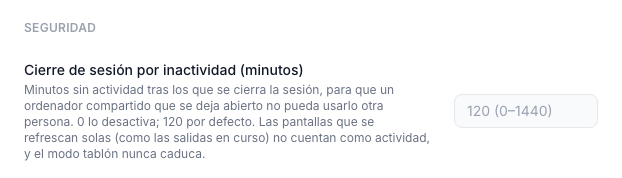
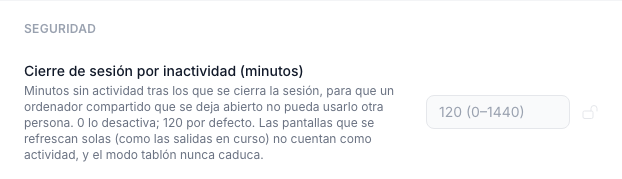
fix(security): el cierre por inactividad se ajusta solo a nivel global, como en atica-calidad

diff --git a/tests/Integration/EventSubscriber/IdleSessionSubscriberTest.php b/tests/Integration/EventSubscriber/IdleSessionSubscriberTest.php
@@ -4,19 +4,17 @@ declare(strict_types=1);
 
 namespace App\Tests\Integration\EventSubscriber;
 
-use App\Entity\CentreSettingValue;
 use App\Entity\EducationalCentre;
 use App\Entity\GlobalSettingValue;
 use App\Entity\PersonName;
 use App\Entity\SettingDefinition;
 use App\Entity\Teacher;
-use App\Entity\TeacherSettingValue;
 use App\EventSubscriber\IdleSessionSubscriber;
 use App\Service\AppSettings;
 use App\Tests\Integration\ControllerTestCase;
 use Symfony\Component\Clock\Test\ClockSensitiveTrait;
 
-/** Cierre de sesión por inactividad: ajuste global, de centro y de docente, y qué cuenta como actividad. */
+/** Cierre de sesión por inactividad: ajuste global y qué cuenta como actividad. */
 final class IdleSessionSubscriberTest extends ControllerTestCase
 {
     use ClockSensitiveTrait;
@@ -40,26 +38,10 @@ final class IdleSessionSubscriberTest extends ControllerTestCase
         return $definition;
     }
 
-    private function globalTimeout(int $minutes, bool $locked = false): void
+    private function globalTimeout(int $minutes): void
     {
-        $this->persist((new GlobalSettingValue())->setDefinition($this->definition())->setValue((string) $minutes)->setLocked($locked));
-        $this->invalidateSettings();
-    }
+        $this->persist((new GlobalSettingValue())->setDefinition($this->definition())->setValue((string) $minutes));
 
-    private function centreTimeout(int $minutes, bool $locked = false): void
-    {
-        $this->persist((new CentreSettingValue())->setDefinition($this->definition())->setCentre($this->centre)->setValue((string) $minutes)->setLocked($locked));
-        $this->invalidateSettings();
-    }
-
-    private function teacherTimeout(int $minutes): void
-    {
-        $this->persist((new TeacherSettingValue())->setDefinition($this->definition())->setTeacher($this->teacher)->setValue((string) $minutes));
-        $this->invalidateSettings();
-    }
-
-    private function invalidateSettings(): void
-    {
         /** @var AppSettings $settings */
         $settings = self::getContainer()->get(AppSettings::class);
         $settings->invalidate();
@@ -108,56 +90,20 @@ final class IdleSessionSubscriberTest extends ControllerTestCase
         $this->assertExpiredAt('09:16:00');
     }
 
-    public function testTheCentreSettingOverridesTheGlobalOne(): void
+    public function testTheSettingIsOnlyAvailableAtGlobalLevel(): void
     {
-        self::mockTime('2025-10-10 09:00:00');
-        $this->loggedInTeacher();
-        $this->globalTimeout(15);
-        $this->centreTimeout(60);
+        $definition = $this->definition();
 
-        $this->assertAliveAt('09:40:00');
-        $this->assertExpiredAt('10:41:00');
-    }
-
-    public function testTheTeachersOwnSettingOverridesTheCentreAndGlobalOnes(): void
-    {
-        self::mockTime('2025-10-10 09:00:00');
-        $this->loggedInTeacher();
-        $this->globalTimeout(15);
-        $this->centreTimeout(30);
-        $this->teacherTimeout(240);
-
-        $this->assertAliveAt('11:00:00');
-        $this->assertAliveAt('14:30:00');
-        $this->assertExpiredAt('18:31:00');
-    }
-
-    public function testALockedGlobalSettingBeatsTheCentreAndTheTeacher(): void
-    {
-        self::mockTime('2025-10-10 09:00:00');
-        $this->loggedInTeacher();
-        $this->globalTimeout(15, locked: true);
-        $this->teacherTimeout(0);
-        $this->centreTimeout(0);
-
-        $this->assertExpiredAt('09:16:00');
-    }
-
-    public function testALockedCentreSettingBeatsTheTeacher(): void
-    {
-        self::mockTime('2025-10-10 09:00:00');
-        $this->loggedInTeacher();
-        $this->centreTimeout(15, locked: true);
-        $this->teacherTimeout(0);
-
-        $this->assertExpiredAt('09:16:00');
+        self::assertTrue($definition->isGlobalScope());
+        self::assertFalse($definition->isCentreScope());
+        self::assertFalse($definition->isTeacherScope());
     }
 
     public function testZeroTurnsItOff(): void
     {
         self::mockTime('2025-10-10 09:00:00');
         $this->loggedInTeacher();
-        $this->teacherTimeout(0);
+        $this->globalTimeout(0);
 
         self::mockTime('2025-10-12 09:00:00');
         $this->client->request('GET', '/perfil');

diff --git a/migrations/sqlite/Version20260101000086.php b/migrations/sqlite/Version20260101000086.php
@@ -13,7 +13,7 @@ final class Version20260101000086 extends AbstractMigration
 {
     public function getDescription(): string
     {
-        return 'Ajuste security.idle_timeout_minutes (cierre de sesión por inactividad), global, de centro y de docente (SQLite)';
+        return 'Ajuste security.idle_timeout_minutes (cierre de sesión por inactividad), solo a nivel global (SQLite)';
     }
 
     public function up(Schema $schema): void
@@ -25,7 +25,7 @@ final class Version20260101000086 extends AbstractMigration
 
         // El id va como parámetro con los 16 bytes del UUID, que es como los envía Doctrine en SQLite (ver la migración 050).
         $this->addSql(
-            "INSERT INTO setting_definition (id, key, type, default_value, global_scope, centre_scope, teacher_scope, min_value, max_value, choices, category, category_order, position) VALUES (?, 'security.idle_timeout_minutes', 'integer', '120', 1, 1, 1, 0, 1440, NULL, 'settings.category.security', 8, 10)",
+            "INSERT INTO setting_definition (id, key, type, default_value, global_scope, centre_scope, teacher_scope, min_value, max_value, choices, category, category_order, position) VALUES (?, 'security.idle_timeout_minutes', 'integer', '120', 1, 0, 0, 0, 1440, NULL, 'settings.category.security', 8, 10)",
             [Uuid::v4()->toBinary()]
         );
     }
@@ -37,10 +37,7 @@ final class Version20260101000086 extends AbstractMigration
             'Esta migración sólo puede ejecutarse en SQLite.'
         );
 
-        $definition = "(SELECT id FROM setting_definition WHERE key = 'security.idle_timeout_minutes')";
-        $this->addSql("DELETE FROM teacher_setting_value WHERE definition_id IN $definition");
-        $this->addSql("DELETE FROM centre_setting_value WHERE definition_id IN $definition");
-        $this->addSql("DELETE FROM global_setting_value WHERE definition_id IN $definition");
+        $this->addSql("DELETE FROM global_setting_value WHERE definition_id IN (SELECT id FROM setting_definition WHERE key = 'security.idle_timeout_minutes')");
         $this->addSql("DELETE FROM setting_definition WHERE key = 'security.idle_timeout_minutes'");
     }
 }

diff --git a/migrations/mysql/Version20260101000086.php b/migrations/mysql/Version20260101000086.php
@@ -12,7 +12,7 @@ final class Version20260101000086 extends AbstractMigration
 {
     public function getDescription(): string
     {
-        return 'Ajuste security.idle_timeout_minutes (cierre de sesión por inactividad), global, de centro y de docente (MySQL / MariaDB)';
+        return 'Ajuste security.idle_timeout_minutes (cierre de sesión por inactividad), solo a nivel global (MySQL / MariaDB)';
     }
 
     public function up(Schema $schema): void
@@ -24,7 +24,7 @@ final class Version20260101000086 extends AbstractMigration
 
         $this->addSql(<<<'SQL'
             INSERT INTO setting_definition (id, `key`, type, default_value, global_scope, centre_scope, teacher_scope, min_value, max_value, choices, category, category_order, position) VALUES
-                (UNHEX(REPLACE(UUID(), '-', '')), 'security.idle_timeout_minutes', 'integer', '120', 1, 1, 1, 0, 1440, NULL, 'settings.category.security', 8, 10)
+                (UNHEX(REPLACE(UUID(), '-', '')), 'security.idle_timeout_minutes', 'integer', '120', 1, 0, 0, 0, 1440, NULL, 'settings.category.security', 8, 10)
         SQL);
     }
 
@@ -35,10 +35,7 @@ final class Version20260101000086 extends AbstractMigration
             'Esta migración sólo puede ejecutarse en MySQL o MariaDB.'
         );
 
-        $definition = "(SELECT id FROM (SELECT id FROM setting_definition WHERE `key` = 'security.idle_timeout_minutes') d)";
-        $this->addSql("DELETE FROM teacher_setting_value WHERE definition_id IN $definition");
-        $this->addSql("DELETE FROM centre_setting_value WHERE definition_id IN $definition");
-        $this->addSql("DELETE FROM global_setting_value WHERE definition_id IN $definition");
+        $this->addSql("DELETE FROM global_setting_value WHERE definition_id IN (SELECT id FROM (SELECT id FROM setting_definition WHERE `key` = 'security.idle_timeout_minutes') d)");
         $this->addSql("DELETE FROM setting_definition WHERE `key` = 'security.idle_timeout_minutes'");
     }
 }

diff --git a/migrations/postgresql/Version20260101000086.php b/migrations/postgresql/Version20260101000086.php
@@ -12,7 +12,7 @@ final class Version20260101000086 extends AbstractMigration
 {
     public function getDescription(): string
     {
-        return 'Ajuste security.idle_timeout_minutes (cierre de sesión por inactividad), global, de centro y de docente (PostgreSQL)';
+        return 'Ajuste security.idle_timeout_minutes (cierre de sesión por inactividad), solo a nivel global (PostgreSQL)';
     }
 
     public function up(Schema $schema): void
@@ -24,7 +24,7 @@ final class Version20260101000086 extends AbstractMigration
 
         $this->addSql(<<<'SQL'
             INSERT INTO setting_definition (id, key, type, default_value, global_scope, centre_scope, teacher_scope, min_value, max_value, choices, category, category_order, position) VALUES
-                (gen_random_uuid(), 'security.idle_timeout_minutes', 'integer', '120', TRUE, TRUE, TRUE, 0, 1440, NULL, 'settings.category.security', 8, 10)
+                (gen_random_uuid(), 'security.idle_timeout_minutes', 'integer', '120', TRUE, FALSE, FALSE, 0, 1440, NULL, 'settings.category.security', 8, 10)
         SQL);
     }
 
@@ -35,10 +35,7 @@ final class Version20260101000086 extends AbstractMigration
             'Esta migración sólo puede ejecutarse en PostgreSQL.'
         );
 
-        $definition = "(SELECT id FROM setting_definition WHERE key = 'security.idle_timeout_minutes')";
-        $this->addSql("DELETE FROM teacher_setting_value WHERE definition_id IN $definition");
-        $this->addSql("DELETE FROM centre_setting_value WHERE definition_id IN $definition");
-        $this->addSql("DELETE FROM global_setting_value WHERE definition_id IN $definition");
+        $this->addSql("DELETE FROM global_setting_value WHERE definition_id IN (SELECT id FROM setting_definition WHERE key = 'security.idle_timeout_minutes')");
         $this->addSql("DELETE FROM setting_definition WHERE key = 'security.idle_timeout_minutes'");
     }
 }

diff --git a/tests/Integration/ControllerTestCase.php b/tests/Integration/ControllerTestCase.php
@@ -122,7 +122,7 @@ abstract class ControllerTestCase extends WebTestCase
             ['updates.check_enabled', SettingType::Boolean, 'true', true, false, false, null, null, 'settings.category.maintenance', 5, 20, null],
             ['backup.auto_policy', SettingType::Choice, 'off', true, false, false, null, null, 'settings.category.backup', 7, 10, 'off,basic,recommended,extended'],
             ['backup.auto_max_size_mb', SettingType::Integer, '0', true, false, false, 0, 1048576, 'settings.category.backup', 7, 20, null],
-            ['security.idle_timeout_minutes', SettingType::Integer, '120', true, true, true, 0, 1440, 'settings.category.security', 8, 10, null],
+            ['security.idle_timeout_minutes', SettingType::Integer, '120', true, false, false, 0, 1440, 'settings.category.security', 8, 10, null],
             ['reports.analytics_header_left',   SettingType::RichText, '<p><strong>{title}</strong></p>', true, true, false, 0,  5000, 'settings.category.reports', 60, 340, null],
             ['reports.analytics_header_right',  SettingType::RichText, '<p>{centre_name}</p>',            true, true, false, 0,  5000, 'settings.category.reports', 60, 350, null],
             ['reports.analytics_header_margin', SettingType::Integer,  '22',                              true, true, false, 10, 80,   'settings.category.reports', 60, 360, null],

diff --git a/src/EventSubscriber/IdleSessionSubscriber.php b/src/EventSubscriber/IdleSessionSubscriber.php
@@ -19,8 +19,7 @@ use Symfony\Component\Routing\Generator\UrlGeneratorInterface;
 /**
  * Cierra la sesión de quien lleva un rato sin hacer nada (ajuste `security.idle_timeout_minutes`, en minutos; 0 lo desactiva):
  * un ordenador de la sala de profesores que se queda con la sesión abierta no debe poder usarlo la siguiente persona. El ajuste
- * se puede dar a nivel global, de centro y de docente (se aplica el de más cerca, salvo que uno superior lo bloquee), así que
- * quien necesite una pantalla siempre abierta (conserjería) puede ponerse un 0 propio si nadie lo ha bloqueado.
+ * es solo global: lo fija la administración de la plataforma, no cada centro ni cada docente.
  *
  * Cuenta como actividad cualquier petición, también las de los componentes en vivo, salvo las que hace la propia página por
  * su cuenta para mantenerse al día (cabecera `X-Background-Refresh` o un componente de BACKGROUND_COMPONENTS): si contaran, una
@@ -97,7 +96,7 @@ final class IdleSessionSubscriber implements EventSubscriberInterface
 
     private function timeoutMinutes(): int
     {
-        $minutes = $this->settings->get(self::SETTING);
+        $minutes = $this->settings->getGlobal(self::SETTING);
 
         return is_int($minutes) && $minutes >= 0 ? $minutes : self::DEFAULT_MINUTES;
     }

diff --git a/src/Twig/Components/SettingsComponent.php b/src/Twig/Components/SettingsComponent.php
@@ -31,7 +31,6 @@ class SettingsComponent extends AbstractController
         'settings.category.email',
         'settings.category.email_alerts',
         'settings.category.email_receive_issues',
-        'settings.category.security',
     ];
 
     /** 'global' | 'centre' | 'teacher' */

diff --git a/docs/manual/13-administrar-la-plataforma.md b/docs/manual/13-administrar-la-plataforma.md
@@ -644,14 +644,11 @@ volver a la pantalla de inicio de sesión, lo explica:
 |---|---|---|
 | Cierre de sesión por inactividad (minutos) | Minutos sin actividad tras los que se cierra la sesión; **0** lo desactiva (máximo 1440, un día) | 120 |
 
-![El ajuste «Cierre de sesión por inactividad (minutos)» en Mi perfil › Ajustes, categoría Seguridad](img/ajustes/ajustes-seguridad.png)
+![El ajuste «Cierre de sesión por inactividad (minutos)» en Ajustes globales, categoría Seguridad](img/ajustes/ajustes-seguridad.png)
 
-Es un ajuste de **los tres niveles** (global, de centro y de docente) y sigue la regla de
-siempre: **docente > centro > global > valor por defecto**, y un nivel superior puede **bloquearlo**
-para que los inferiores no lo cambien. Cada docente lo ve en **Mi perfil › Ajustes**, categoría
-**Seguridad** (el personal no docente también). Así, quien necesita una pantalla siempre abierta puede
-ponerse un 0 propio, salvo que el centro o la plataforma lo hayan bloqueado; si lo que quieres es
-imponer un tiempo a todo el mundo, **bloquea** el valor en Ajustes globales.
+Es un ajuste **solo global**: se cambia en **Administración › Ajustes globales**, categoría
+**Seguridad**, y vale para todos los centros y todo el profesorado; ni los centros ni cada docente
+pueden cambiarlo.
 
 Qué cuenta como actividad:
 
@@ -659,7 +656,9 @@ Qué cuenta como actividad:
   acción de las pantallas dinámicas.
 - **No cuentan** los refrescos automáticos de las pantallas que se actualizan solas (las salidas en curso
   y el calendario de reservas): si contaran, una pantalla así no caducaría nunca. Una pantalla de salidas
-  que nadie toca se cierra a su hora, igual que cualquier otra.
+  que nadie toca se cierra a su hora, igual que cualquier otra; para un ordenador de conserjería que
+  debe quedarse siempre abierto, sube el tiempo (hasta 1440 minutos) o ponlo a 0 para toda la
+  plataforma.
 - El **modo tablón** (la pantalla de pasillo) **nunca caduca**.
 
 !!! note "Duración de las sesiones en el servidor"

diff --git a/docs/manual/16-resolucion-de-problemas.md b/docs/manual/16-resolucion-de-problemas.md
@@ -78,9 +78,9 @@ aplicación con un certificado válido (ver
 ### «Se ha cerrado tu sesión tras un rato sin actividad»
 
 La aplicación cierra la sesión de quien lleva un rato sin hacer nada (120 minutos por defecto) y lo
-explica en la pantalla de inicio de sesión. No es un fallo. Cada docente puede cambiar el tiempo en
-**Mi perfil › Ajustes › Seguridad** (0 lo desactiva), salvo que el centro o la plataforma lo hayan
-bloqueado. Los detalles, en
+explica en la pantalla de inicio de sesión. No es un fallo. El tiempo lo fija la administración de la
+plataforma en **Ajustes globales › Seguridad** (0 lo desactiva); si es demasiado corto para vuestro
+centro, pídele que lo suba. Los detalles, en
 [Cierre de sesión por inactividad](13-administrar-la-plataforma.md#cierre-de-sesion-por-inactividad).
 
 ### Un docente no ve ninguna sección
